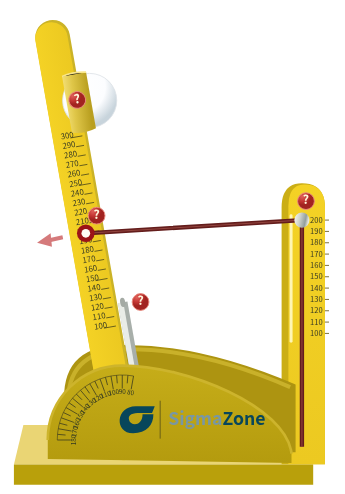
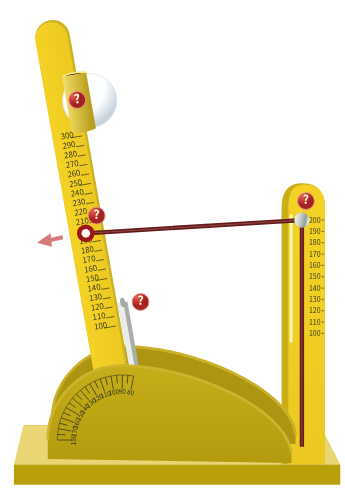
Extend base, remove side branding and contain post engraving with matched guards

diff --git a/DOE_Catapult_Competition.html b/DOE_Catapult_Competition.html
@@ -196,8 +196,10 @@ function drawMechanism(progress=1,shot=lastShot){
   const ring=(id,x,y)=>{const r=15,f=factors.find(f=>f.id===id);return `<g data-factor="${id}" role="slider" tabindex="0" aria-label="${f.name}" aria-valuemin="${f.min}" aria-valuemax="${f.max}" aria-valuenow="${v[factors.indexOf(f)]}" aria-valuetext="${v[factors.indexOf(f)]} ${f.unit}" transform="translate(${x} ${y})"><title>拖动${id}：${f.name} ${f.min}–${f.max}${f.unit}</title><circle class="handle-hit" r="25"/><g class="badge-face" style="opacity:${(dragState?.id||activeFactorUI)===id?1:0}"><circle class="handle-ring" r="20" style="${selectedFactor===id?'stroke:#d39355;stroke-width:2;':''}"/><circle r="15" fill="none"/><text class="badge-text" text-anchor="middle" dominant-baseline="central">${id}</text></g></g>`};
   // Native engraving: 100–300 on the arm, 100–200 on the upright, 10-unit spacing.
   let ruler='';for(let mark=100;mark<=300;mark+=10){const x=armScaleRadius(mark)*620;ruler+=`<g data-arm-mark="${mark}"><path d="M ${x} 10 v ${mark%50===0?-9:-6}" stroke="#61591b" stroke-width=".65"/><text x="${x}" y="-1" text-anchor="middle" font-size="5.8" fill="#383b23" transform="rotate(90 ${x} -1)">${mark}</text></g>`}
-  const sx=PHYSICS.supportFootX*620,postHeight=PHYSICS.postLength*620;let ticks='';for(let mark=100;mark<=200;mark+=10){const y=-mark*.62*PHYSICS.pinScaleMm;ticks+=`<g data-pin-mark="${mark}"><path d="M ${sx+17} ${y} h 3" stroke="#5c5218" stroke-width=".6"/><text x="${sx+6}" y="${y+2}" text-anchor="start" font-size="5.6" fill="#383b23">${mark}</text></g>`}
+  const sx=PHYSICS.supportFootX*620,postHeight=PHYSICS.postLength*620;let ticks='';for(let mark=100;mark<=200;mark+=10){const y=-mark*.62*PHYSICS.pinScaleMm;ticks+=`<g data-pin-mark="${mark}"><path d="M ${sx+14.6} ${y} h 1.8" stroke="#5c5218" stroke-width=".6"/><text x="${sx+5.2}" y="${y+2}" text-anchor="start" font-size="5.2" textLength="8.6" lengthAdjust="spacingAndGlyphs" fill="#383b23">${mark}</text></g>`}
   let dial='';for(let a=80;a<=180;a+=5){const rad=a*Math.PI/180,r=a%10===0?38:42;dial+=`<path data-dial-angle="${a}" d="M ${r*Math.cos(rad)} ${-r*Math.sin(rad)} L ${48*Math.cos(rad)} ${-48*Math.sin(rad)}" stroke="#48451d" stroke-width=".65"/>`;if(a%10===0)dial+=`<text transform="translate(${34*Math.cos(rad)} ${-34*Math.sin(rad)}) rotate(${90-a})" font-size="4.7" text-anchor="middle" fill="#303723">${a}</text>`;}
+  const guardOutline=`M ${p.x-55} 484 V ${p.y} A 55 55 0 0 1 ${p.x} ${p.y-55} C ${p.x+47} ${p.y-55} ${p.x+121} ${p.y-25} ${p.x+125} 480 V 487 Z`;
+  const guardRim=`M ${p.x-55} ${p.y} A 55 55 0 0 1 ${p.x} ${p.y-55} C ${p.x+47} ${p.y-55} ${p.x+121} ${p.y-25} ${p.x+125} 480`;
   const help=(id,x,y,rotation=0)=>`<g data-drag-factor="${id}" class="reference-help" transform="translate(${x} ${y}) rotate(${rotation})"><circle r="6.2" fill="url(#helpRed)" stroke="#e98b7e" stroke-width=".7"/><text y="2.4" text-anchor="middle" font-size="9" font-weight="600" fill="#fff7dd">?</text><title>拖动调整${factors.find(f=>f.id===id).name}</title></g>`;
   svg.innerHTML=`<defs>
   <linearGradient id="gold" x1="0" y1="0" x2="0" y2="1"><stop stop-color="#c6ad19"/><stop offset="1" stop-color="#b49b0e"/></linearGradient>
@@ -209,18 +211,18 @@ function drawMechanism(progress=1,shot=lastShot){
   <radialGradient id="helpRed" cx="28%" cy="22%"><stop stop-color="#df605a"/><stop offset=".6" stop-color="#c33532"/><stop offset="1" stop-color="#a22320"/></radialGradient>
   <radialGradient id="pingBall" cx="30%" cy="25%" r="75%"><stop stop-color="#fff"/><stop offset=".65" stop-color="#fcfdff"/><stop offset="1" stop-color="#c8d4dc"/></radialGradient><pattern id="golfBall" width=".24" height=".24" patternContentUnits="objectBoundingBox"><rect width=".24" height=".24" fill="#fafcfd"/><circle cx=".12" cy=".12" r=".068" fill="#ced7de" stroke="#fff" stroke-width=".022"/><circle cx=".106" cy=".106" r=".025" fill="#aab9c4"/></pattern><marker id="directionArrow" viewBox="0 0 10 10" refX="8" refY="5" markerWidth="6" markerHeight="6" orient="auto-start-reverse"><path d="M 0 0 L 10 5 L 0 10 Z" fill="#e08044"/></marker></defs>
   <ellipse cx="400" cy="503" rx="110" ry="2" fill="none"/>
-  <g data-recock-body="true" role="button" tabindex="0" aria-label="投射器机身；点击仅重新上弦，不发射"><path id="base-top" d="M 292 459 H 491 L 506 488 H 285 Z" fill="#ead574"/><path id="base-front" d="M 285 488 H 506 V 503 H 285 Z" fill="#b9a00b"/>
+  <g data-recock-body="true" role="button" tabindex="0" aria-label="投射器机身；点击仅重新上弦，不发射"><path id="base-top" d="M 292 459 H 511 L 526 488 H 285 Z" fill="#ead574"/><path id="base-front" d="M 285 488 H 526 V 503 H 285 Z" fill="#b9a00b"/>
   <g id="b-carrier" data-pivot-x="${p.x}" data-pivot-y="${p.y}" transform="translate(${p.x} ${p.y})"><g transform="translate(0 ${-PHYSICS.supportFootY*620})"><path id="d-post-shell" d="M ${sx-15} 13 L ${sx-15} ${-postHeight+18} Q ${sx-15} ${-postHeight} ${sx} ${-postHeight} Q ${sx+17} ${-postHeight} ${sx+17} ${-postHeight+18} V 13 Z" fill="#cbae15"/><path d="M ${sx-10} 13 V ${-postHeight+17} Q ${sx-10} ${-postHeight+1} ${sx+2} ${-postHeight+1} Q ${sx+17} ${-postHeight+1} ${sx+17} ${-postHeight+18} V 13 Z" fill="url(#armGold)"/><path d="M ${sx-8} ${-postHeight+24} V -78" stroke="#fff6b4" stroke-width="2.2" stroke-linecap="round"/>${ticks}</g></g>
-  <path id="rear-guard" class="rig-plate" d="M ${p.x-43} 479 V ${p.y-31} Q ${p.x-43} ${p.y-72} ${p.x+5} ${p.y-70} Q ${p.x+60} ${p.y-70} ${p.x+128} ${p.y-41} L ${p.x+128} 479 Z" fill="#ad9411"/><path d="M ${p.x-40} ${p.y-30} Q ${p.x-39} ${p.y-67} ${p.x+5} ${p.y-67} Q ${p.x+60} ${p.y-67} ${p.x+124} ${p.y-39}" fill="none" stroke="#c9b12a" stroke-width="3"/>
+  <g transform="translate(3 -14)"><path id="rear-guard" class="rig-plate" d="${guardOutline}" fill="#ad9411"/><path class="guard-rim" d="${guardRim}" fill="none" stroke="#c9b12a" stroke-width="2"/></g>
   <g id="a-arm" data-drag-factor="B" data-pivot-x="${p.x}" data-pivot-y="${p.y}"><rect x="-15" y="-12.8" width="${PHYSICS.armLength*620+15}" height="25.6" rx="12.8" fill="#cbb327" transform="translate(1.5 1)"/><rect x="-15" y="-12" width="${PHYSICS.armLength*620+15}" height="24" rx="12" fill="url(#armGold)"/>${ruler}</g>
   <path id="rubber-route" stroke="#641d1c" stroke-width="3.2" stroke-linejoin="round" fill="none"/><path id="rubber-highlight" stroke="#9a4b44" stroke-width=".65" fill="none"/>
   <circle id="loaded-ball" data-drag-factor="D" r="20" fill="url(#pingBall)" stroke="#dde1e6" stroke-width=".6"/>
   <g id="cup-assembly" data-drag-factor="D"><path d="M -17 -21 Q -9 -23 1 -21 V 21 Q -9 24 -17 21 Z" fill="url(#cupGold)"/><path d="M -17 -21 Q -9 -23 1 -21" stroke="#f9e68a" stroke-width="1.3"/>${help('D',-9,-2)}</g>
   <g id="bungee-hardware" data-drag-factor="F"><circle r="6.5" fill="#9c1418"/><circle r="3.2" fill="#fffdf4"/>${help('F',8,-13)}</g>
   <g id="b-limit" data-drag-factor="C" data-pivot-x="${p.x}" data-pivot-y="${p.y}" transform="translate(${p.x} ${p.y}) rotate(${-v[1]})"><path d="M 0 18 H 100" stroke="#a8afaa" stroke-width="7" stroke-linecap="butt"/><path d="M 0 16.4 H 100" stroke="#e9ece7" stroke-width="4"/><ellipse cx="100" cy="18" rx="3.5" ry="1.9" fill="#a4aaa4"/>${help('C',98,31,v[1])}</g>
-  <path id="front-guard" class="rig-plate" d="M ${p.x-55} 484 V ${p.y} A 55 55 0 0 1 ${p.x} ${p.y-55} C ${p.x+47} ${p.y-55} ${p.x+121} ${p.y-25} ${p.x+125} 480 V 487 Z" fill="url(#gold)"/><path class="guard-rim" d="M ${p.x-55} ${p.y} A 55 55 0 0 1 ${p.x} ${p.y-55} C ${p.x+47} ${p.y-55} ${p.x+121} ${p.y-25} ${p.x+125} 480" stroke="#cdb42c" stroke-width="2" fill="none"/>
+  <path id="front-guard" class="rig-plate" d="${guardOutline}" fill="url(#gold)"/><path class="guard-rim" d="${guardRim}" stroke="#cdb42c" stroke-width="2" fill="none"/>
   <g id="protractor" data-center-x="${p.x}" data-center-y="${p.y}" transform="translate(${p.x} ${p.y})"><path d="M ${48*Math.cos(80*Math.PI/180)} ${-48*Math.sin(80*Math.PI/180)} A 48 48 0 0 0 -48 0" fill="none" stroke="#61591a" stroke-width=".6"/>${dial}</g>
-  <g id="reference-brand" transform="translate(${p.x+3} ${p.y-22})"><path d="M 21 -3 H 7 C -8 -3 -9 17 5 17 C 15 17 20 11 20 3 H 12 C 12 12 3 12 2 7 C 1 3 5 2 10 2 H 19 Z" fill="#07465b"/><path d="M 25 -7 V 21" stroke="#665c16" stroke-width=".7"/><text x="31" y="11" font-family="Arial,sans-serif" font-size="13" font-weight="600" fill="#7997a3">Sigma<tspan fill="#07465b">Zone</tspan></text></g>
+
 </g>
   <g id="pin-hardware" data-drag-factor="E"><circle r="5.6" fill="url(#metal)"/>${help('E',3,-14)}</g>
   <g id="vertical-return-mark" visibility="hidden"></g><g id="d-zero" visibility="hidden"></g><g id="common-pivot-mark" visibility="hidden"></g>

diff --git a/DOE_Catapult_Reference_Layout.html b/DOE_Catapult_Reference_Layout.html
@@ -196,8 +196,10 @@ function drawMechanism(progress=1,shot=lastShot){
   const ring=(id,x,y)=>{const r=15,f=factors.find(f=>f.id===id);return `<g data-factor="${id}" role="slider" tabindex="0" aria-label="${f.name}" aria-valuemin="${f.min}" aria-valuemax="${f.max}" aria-valuenow="${v[factors.indexOf(f)]}" aria-valuetext="${v[factors.indexOf(f)]} ${f.unit}" transform="translate(${x} ${y})"><title>拖动${id}：${f.name} ${f.min}–${f.max}${f.unit}</title><circle class="handle-hit" r="25"/><g class="badge-face" style="opacity:${(dragState?.id||activeFactorUI)===id?1:0}"><circle class="handle-ring" r="20" style="${selectedFactor===id?'stroke:#d39355;stroke-width:2;':''}"/><circle r="15" fill="none"/><text class="badge-text" text-anchor="middle" dominant-baseline="central">${id}</text></g></g>`};
   // Native engraving: 100–300 on the arm, 100–200 on the upright, 10-unit spacing.
   let ruler='';for(let mark=100;mark<=300;mark+=10){const x=armScaleRadius(mark)*620;ruler+=`<g data-arm-mark="${mark}"><path d="M ${x} 10 v ${mark%50===0?-9:-6}" stroke="#61591b" stroke-width=".65"/><text x="${x}" y="-1" text-anchor="middle" font-size="5.8" fill="#383b23" transform="rotate(90 ${x} -1)">${mark}</text></g>`}
-  const sx=PHYSICS.supportFootX*620,postHeight=PHYSICS.postLength*620;let ticks='';for(let mark=100;mark<=200;mark+=10){const y=-mark*.62*PHYSICS.pinScaleMm;ticks+=`<g data-pin-mark="${mark}"><path d="M ${sx+17} ${y} h 3" stroke="#5c5218" stroke-width=".6"/><text x="${sx+6}" y="${y+2}" text-anchor="start" font-size="5.6" fill="#383b23">${mark}</text></g>`}
+  const sx=PHYSICS.supportFootX*620,postHeight=PHYSICS.postLength*620;let ticks='';for(let mark=100;mark<=200;mark+=10){const y=-mark*.62*PHYSICS.pinScaleMm;ticks+=`<g data-pin-mark="${mark}"><path d="M ${sx+14.6} ${y} h 1.8" stroke="#5c5218" stroke-width=".6"/><text x="${sx+5.2}" y="${y+2}" text-anchor="start" font-size="5.2" textLength="8.6" lengthAdjust="spacingAndGlyphs" fill="#383b23">${mark}</text></g>`}
   let dial='';for(let a=80;a<=180;a+=5){const rad=a*Math.PI/180,r=a%10===0?38:42;dial+=`<path data-dial-angle="${a}" d="M ${r*Math.cos(rad)} ${-r*Math.sin(rad)} L ${48*Math.cos(rad)} ${-48*Math.sin(rad)}" stroke="#48451d" stroke-width=".65"/>`;if(a%10===0)dial+=`<text transform="translate(${34*Math.cos(rad)} ${-34*Math.sin(rad)}) rotate(${90-a})" font-size="4.7" text-anchor="middle" fill="#303723">${a}</text>`;}
+  const guardOutline=`M ${p.x-55} 484 V ${p.y} A 55 55 0 0 1 ${p.x} ${p.y-55} C ${p.x+47} ${p.y-55} ${p.x+121} ${p.y-25} ${p.x+125} 480 V 487 Z`;
+  const guardRim=`M ${p.x-55} ${p.y} A 55 55 0 0 1 ${p.x} ${p.y-55} C ${p.x+47} ${p.y-55} ${p.x+121} ${p.y-25} ${p.x+125} 480`;
   const help=(id,x,y,rotation=0)=>`<g data-drag-factor="${id}" class="reference-help" transform="translate(${x} ${y}) rotate(${rotation})"><circle r="6.2" fill="url(#helpRed)" stroke="#e98b7e" stroke-width=".7"/><text y="2.4" text-anchor="middle" font-size="9" font-weight="600" fill="#fff7dd">?</text><title>拖动调整${factors.find(f=>f.id===id).name}</title></g>`;
   svg.innerHTML=`<defs>
   <linearGradient id="gold" x1="0" y1="0" x2="0" y2="1"><stop stop-color="#c6ad19"/><stop offset="1" stop-color="#b49b0e"/></linearGradient>
@@ -209,18 +211,18 @@ function drawMechanism(progress=1,shot=lastShot){
   <radialGradient id="helpRed" cx="28%" cy="22%"><stop stop-color="#df605a"/><stop offset=".6" stop-color="#c33532"/><stop offset="1" stop-color="#a22320"/></radialGradient>
   <radialGradient id="pingBall" cx="30%" cy="25%" r="75%"><stop stop-color="#fff"/><stop offset=".65" stop-color="#fcfdff"/><stop offset="1" stop-color="#c8d4dc"/></radialGradient><pattern id="golfBall" width=".24" height=".24" patternContentUnits="objectBoundingBox"><rect width=".24" height=".24" fill="#fafcfd"/><circle cx=".12" cy=".12" r=".068" fill="#ced7de" stroke="#fff" stroke-width=".022"/><circle cx=".106" cy=".106" r=".025" fill="#aab9c4"/></pattern><marker id="directionArrow" viewBox="0 0 10 10" refX="8" refY="5" markerWidth="6" markerHeight="6" orient="auto-start-reverse"><path d="M 0 0 L 10 5 L 0 10 Z" fill="#e08044"/></marker></defs>
   <ellipse cx="400" cy="503" rx="110" ry="2" fill="none"/>
-  <g data-recock-body="true" role="button" tabindex="0" aria-label="投射器机身；点击仅重新上弦，不发射"><path id="base-top" d="M 292 459 H 491 L 506 488 H 285 Z" fill="#ead574"/><path id="base-front" d="M 285 488 H 506 V 503 H 285 Z" fill="#b9a00b"/>
+  <g data-recock-body="true" role="button" tabindex="0" aria-label="投射器机身；点击仅重新上弦，不发射"><path id="base-top" d="M 292 459 H 511 L 526 488 H 285 Z" fill="#ead574"/><path id="base-front" d="M 285 488 H 526 V 503 H 285 Z" fill="#b9a00b"/>
   <g id="b-carrier" data-pivot-x="${p.x}" data-pivot-y="${p.y}" transform="translate(${p.x} ${p.y})"><g transform="translate(0 ${-PHYSICS.supportFootY*620})"><path id="d-post-shell" d="M ${sx-15} 13 L ${sx-15} ${-postHeight+18} Q ${sx-15} ${-postHeight} ${sx} ${-postHeight} Q ${sx+17} ${-postHeight} ${sx+17} ${-postHeight+18} V 13 Z" fill="#cbae15"/><path d="M ${sx-10} 13 V ${-postHeight+17} Q ${sx-10} ${-postHeight+1} ${sx+2} ${-postHeight+1} Q ${sx+17} ${-postHeight+1} ${sx+17} ${-postHeight+18} V 13 Z" fill="url(#armGold)"/><path d="M ${sx-8} ${-postHeight+24} V -78" stroke="#fff6b4" stroke-width="2.2" stroke-linecap="round"/>${ticks}</g></g>
-  <path id="rear-guard" class="rig-plate" d="M ${p.x-43} 479 V ${p.y-31} Q ${p.x-43} ${p.y-72} ${p.x+5} ${p.y-70} Q ${p.x+60} ${p.y-70} ${p.x+128} ${p.y-41} L ${p.x+128} 479 Z" fill="#ad9411"/><path d="M ${p.x-40} ${p.y-30} Q ${p.x-39} ${p.y-67} ${p.x+5} ${p.y-67} Q ${p.x+60} ${p.y-67} ${p.x+124} ${p.y-39}" fill="none" stroke="#c9b12a" stroke-width="3"/>
+  <g transform="translate(3 -14)"><path id="rear-guard" class="rig-plate" d="${guardOutline}" fill="#ad9411"/><path class="guard-rim" d="${guardRim}" fill="none" stroke="#c9b12a" stroke-width="2"/></g>
   <g id="a-arm" data-drag-factor="B" data-pivot-x="${p.x}" data-pivot-y="${p.y}"><rect x="-15" y="-12.8" width="${PHYSICS.armLength*620+15}" height="25.6" rx="12.8" fill="#cbb327" transform="translate(1.5 1)"/><rect x="-15" y="-12" width="${PHYSICS.armLength*620+15}" height="24" rx="12" fill="url(#armGold)"/>${ruler}</g>
   <path id="rubber-route" stroke="#641d1c" stroke-width="3.2" stroke-linejoin="round" fill="none"/><path id="rubber-highlight" stroke="#9a4b44" stroke-width=".65" fill="none"/>
   <circle id="loaded-ball" data-drag-factor="D" r="20" fill="url(#pingBall)" stroke="#dde1e6" stroke-width=".6"/>
   <g id="cup-assembly" data-drag-factor="D"><path d="M -17 -21 Q -9 -23 1 -21 V 21 Q -9 24 -17 21 Z" fill="url(#cupGold)"/><path d="M -17 -21 Q -9 -23 1 -21" stroke="#f9e68a" stroke-width="1.3"/>${help('D',-9,-2)}</g>
   <g id="bungee-hardware" data-drag-factor="F"><circle r="6.5" fill="#9c1418"/><circle r="3.2" fill="#fffdf4"/>${help('F',8,-13)}</g>
   <g id="b-limit" data-drag-factor="C" data-pivot-x="${p.x}" data-pivot-y="${p.y}" transform="translate(${p.x} ${p.y}) rotate(${-v[1]})"><path d="M 0 18 H 100" stroke="#a8afaa" stroke-width="7" stroke-linecap="butt"/><path d="M 0 16.4 H 100" stroke="#e9ece7" stroke-width="4"/><ellipse cx="100" cy="18" rx="3.5" ry="1.9" fill="#a4aaa4"/>${help('C',98,31,v[1])}</g>
-  <path id="front-guard" class="rig-plate" d="M ${p.x-55} 484 V ${p.y} A 55 55 0 0 1 ${p.x} ${p.y-55} C ${p.x+47} ${p.y-55} ${p.x+121} ${p.y-25} ${p.x+125} 480 V 487 Z" fill="url(#gold)"/><path class="guard-rim" d="M ${p.x-55} ${p.y} A 55 55 0 0 1 ${p.x} ${p.y-55} C ${p.x+47} ${p.y-55} ${p.x+121} ${p.y-25} ${p.x+125} 480" stroke="#cdb42c" stroke-width="2" fill="none"/>
+  <path id="front-guard" class="rig-plate" d="${guardOutline}" fill="url(#gold)"/><path class="guard-rim" d="${guardRim}" stroke="#cdb42c" stroke-width="2" fill="none"/>
   <g id="protractor" data-center-x="${p.x}" data-center-y="${p.y}" transform="translate(${p.x} ${p.y})"><path d="M ${48*Math.cos(80*Math.PI/180)} ${-48*Math.sin(80*Math.PI/180)} A 48 48 0 0 0 -48 0" fill="none" stroke="#61591a" stroke-width=".6"/>${dial}</g>
-  <g id="reference-brand" transform="translate(${p.x+3} ${p.y-22})"><path d="M 21 -3 H 7 C -8 -3 -9 17 5 17 C 15 17 20 11 20 3 H 12 C 12 12 3 12 2 7 C 1 3 5 2 10 2 H 19 Z" fill="#07465b"/><path d="M 25 -7 V 21" stroke="#665c16" stroke-width=".7"/><text x="31" y="11" font-family="Arial,sans-serif" font-size="13" font-weight="600" fill="#7997a3">Sigma<tspan fill="#07465b">Zone</tspan></text></g>
+
 </g>
   <g id="pin-hardware" data-drag-factor="E"><circle r="5.6" fill="url(#metal)"/>${help('E',3,-14)}</g>
   <g id="vertical-return-mark" visibility="hidden"></g><g id="d-zero" visibility="hidden"></g><g id="common-pivot-mark" visibility="hidden"></g>

diff --git a/README.md b/README.md
@@ -73,3 +73,5 @@ python tests/test_six_factor_doe.py
 投射器外观按用户最新附件重绘：饱和黄色长臂、圆顶立柱、金色包覆球杯、深红弹力绳、短厚底座与前后弧形侧挡板；量角器与共轴支点同心。图上红色问号可以拖动调整对应部件，变量字母仍只在调节时出现。球种保留白色乒乓球／白色凹点高尔夫球。前一次仅重绘外观；当前安装几何已按下文reference-v2校准。
 
 最新附件校准：球杯与白球位于木臂右侧，臂尺100–300、立柱尺100–200，每10格标数；开火限位杆加长并贴臂侧。球杯安装高度仍默认420 mm，开火与释放默认100°。球杯侧偏已纳入动力学和离杯位置，机构版本更新为reference-v2，旧数据可分析，但请新建实验后进行本版追加采集或验证。
+
+最新外观修订：底板右端延长，侧板不显示文字或标志；前后侧板共用同一轮廓，仅以平移表达前后位置；右臂所有刻度线与数字均收于臂内。本次只调整外壳图形，reference-v2物理几何和既有实验数据保持不变。
